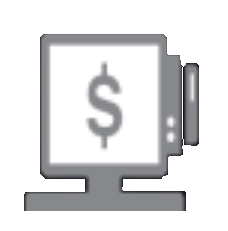
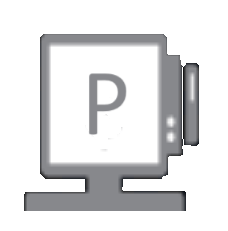
fix price and images

Changed region(s): [[0.3684, 0.2424, 0.5526, 0.6667]]

diff --git a/cart/index.html b/cart/index.html
@@ -14,7 +14,7 @@
 
     <!-- Open Graph / Facebook -->
     <meta property="og:type" content="website" />
-    <meta property="og:url" content="https://postore.com/" />
+    <meta property="og:url" content="https://postore-online.netlify.app/" />
     <meta property="og:title" content="POStore - Premium Ecommerce" />
 
     <meta
@@ -24,7 +24,10 @@
 
     <!-- Twitter -->
     <meta property="twitter:card" content="summary_large_image" />
-    <meta property="twitter:url" content="https://postore.com/" />
+    <meta
+      property="twitter:url"
+      content="https://postore-online.netlify.app/"
+    />
     <meta property="twitter:title" content="POStore - Premium Ecommerce" />
     <meta
       property="twitter:description"
@@ -37,7 +40,7 @@
 
     <!-- Open Graph / Facebook -->
     <meta property="og:type" content="website" />
-    <meta property="og:url" content="https://postore.com/" />
+    <meta property="og:url" content="https://postore-online.netlify.app/" />
     <meta property="og:title" content="POStore - Premium Ecommerce" />
     <meta
       property="og:description"
@@ -50,7 +53,10 @@
 
     <!-- Twitter -->
     <meta property="twitter:card" content="summary_large_image" />
-    <meta property="twitter:url" content="https://postore.com/" />
+    <meta
+      property="twitter:url"
+      content="https://postore-online.netlify.app/"
+    />
     <meta property="twitter:title" content="POStore - Premium Ecommerce" />
     <meta
       property="twitter:description"

diff --git a/cart/js/shared-store.js b/cart/js/shared-store.js
@@ -128,7 +128,7 @@ class SharedStore {
       0
     );
 
-    if (cartTotal) cartTotal.textContent = totalPrice.toFixed(2);
+    if (cartTotal) cartTotal.textContent = this.formatPrice(totalPrice);
     if (wishlistCount) wishlistCount.textContent = this.wishlist.length;
 
     if (this.cart.length === 0) {
